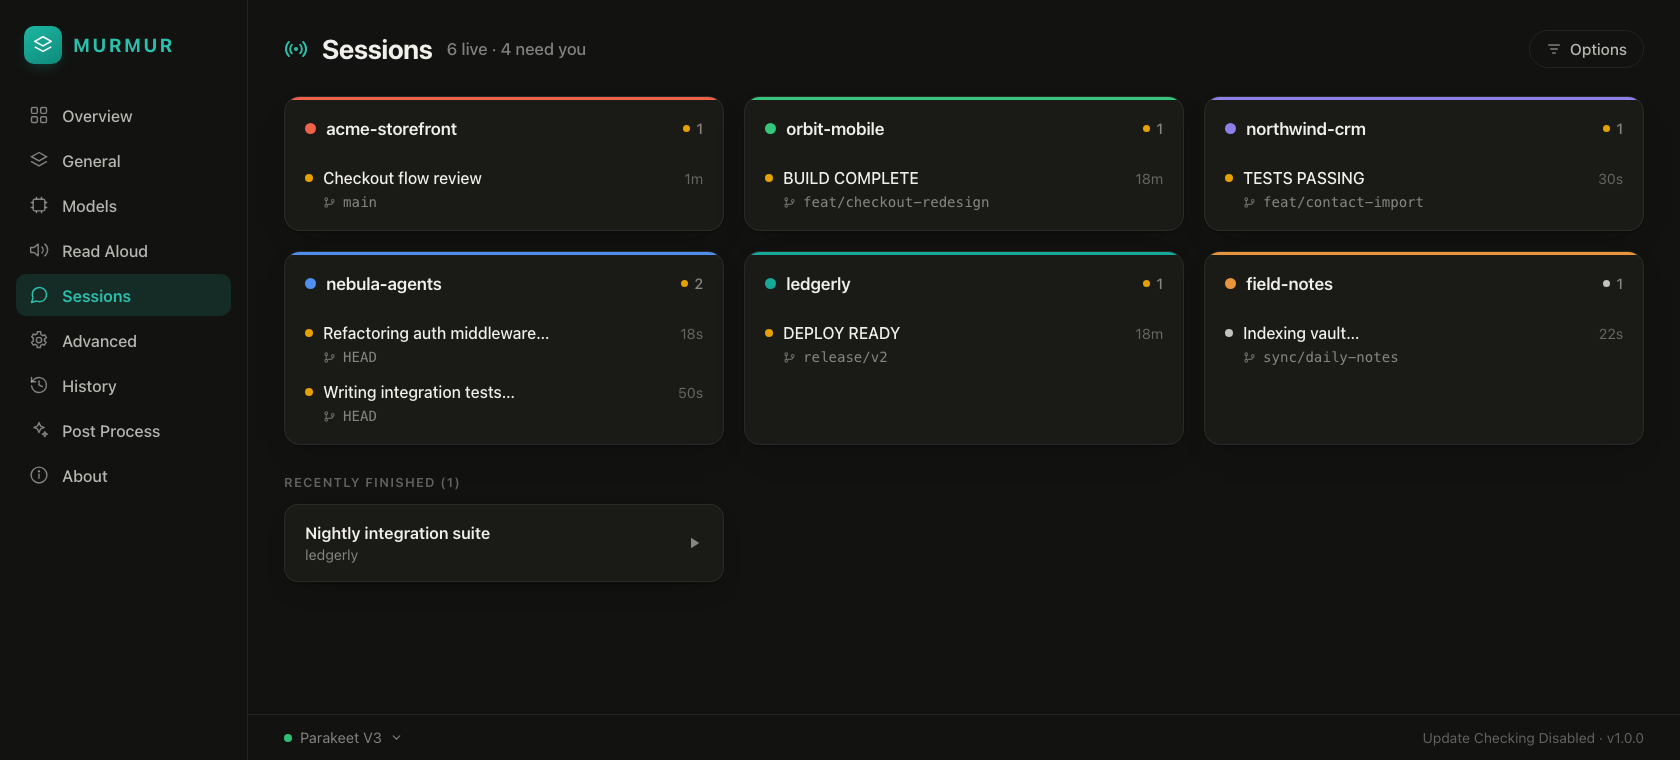
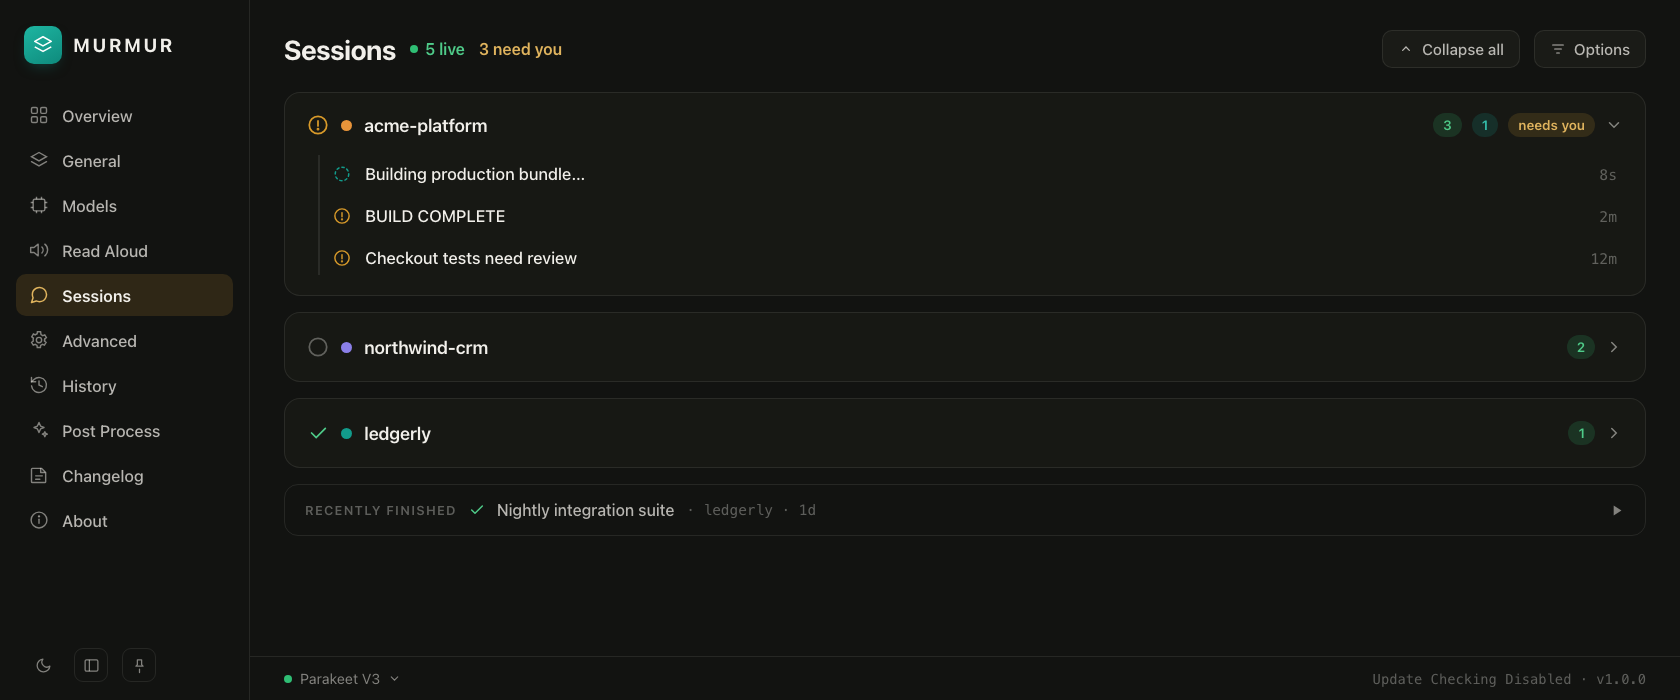
fix(landing): rebuild screenshot as the real Sessions tree + fix hero placement
The mock used a card grid; the actual app is a single-column collapsible
tree (project rows -> expandable session sub-rows with guide line, count
pills, needs-you badge). Rebuilt light + dark to match, with mock project
data. Also fixed the awkward hero placement: reduced the dark-hero void,
pulled the product window up so it emerges from the hero, eased wordmark
letter-spacing from -.05em to -.035em per design audit.

diff --git a/landing/index.html b/landing/index.html
@@ -149,7 +149,7 @@
     background: var(--dark);
     color: var(--on-dark);
     overflow: hidden;
-    padding-block: clamp(22px, 5vw, 36px) clamp(80px, 13vw, 150px);
+    padding-block: clamp(22px, 5vw, 36px) clamp(56px, 8vw, 104px);
   }
   /* single restrained glow — gold, behind the wordmark only */
   .hero::before {
@@ -218,7 +218,7 @@
     text-align: center;
     max-width: 720px;
     margin-inline: auto;
-    padding-top: clamp(44px, 9vw, 84px);
+    padding-top: clamp(32px, 6vw, 58px);
     display: flex;
     flex-direction: column;
     align-items: center;
@@ -235,7 +235,7 @@
   .wordmark {
     font-size: clamp(3.4rem, 12vw, 6.6rem);
     font-weight: 600;
-    letter-spacing: -.05em;
+    letter-spacing: -.035em;
     line-height: .92;
     color: var(--on-dark);
     animation: rise .7s var(--ease) .05s both;
@@ -279,10 +279,10 @@
   .showcase {
     position: relative;
     z-index: 3;
-    margin-top: clamp(-128px, -12vw, -78px);
+    margin-top: clamp(-150px, -15vw, -96px);
     margin-bottom: clamp(8px, 3vw, 32px);
   }
-  .showcase .wrap { max-width: 1000px; }
+  .showcase .wrap { max-width: 1040px; }
   .window {
     border-radius: clamp(12px, 1.6vw, 18px);
     overflow: hidden;
@@ -621,7 +621,7 @@
         </div>
         <img src="./assets/shots/sessions-light.png"
              alt="Murmur's live Sessions observatory showing color-coded Claude Code sessions in real time"
-             width="1680" height="760" loading="eager" />
+             width="1680" height="700" loading="eager" />
       </figure>
     </div>
   </section>
@@ -724,13 +724,13 @@
           <figure class="shot">
             <img src="./assets/shots/sessions-light.png"
                  alt="Murmur Sessions in light theme"
-                 width="1680" height="760" loading="lazy" />
+                 width="1680" height="700" loading="lazy" />
             <figcaption>Light</figcaption>
           </figure>
           <figure class="shot">
             <img src="./assets/shots/sessions-dark.png"
                  alt="Murmur Sessions in dark theme"
-                 width="1680" height="760" loading="lazy" />
+                 width="1680" height="700" loading="lazy" />
             <figcaption>Dark</figcaption>
           </figure>
         </div>